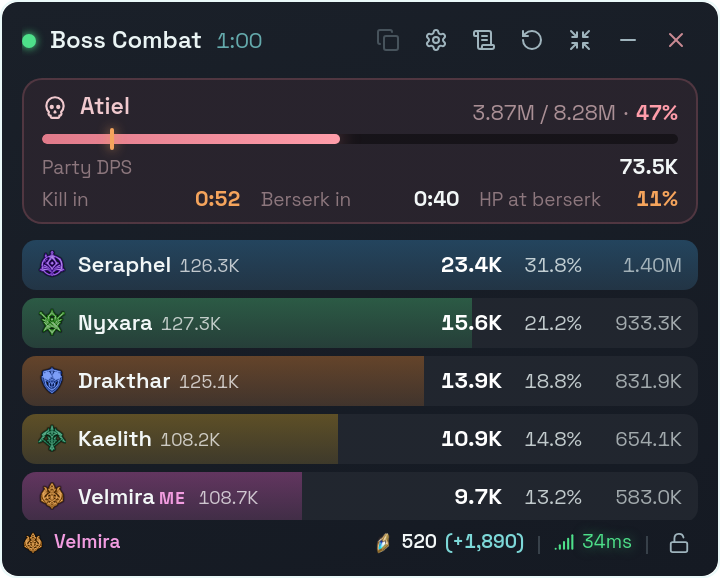
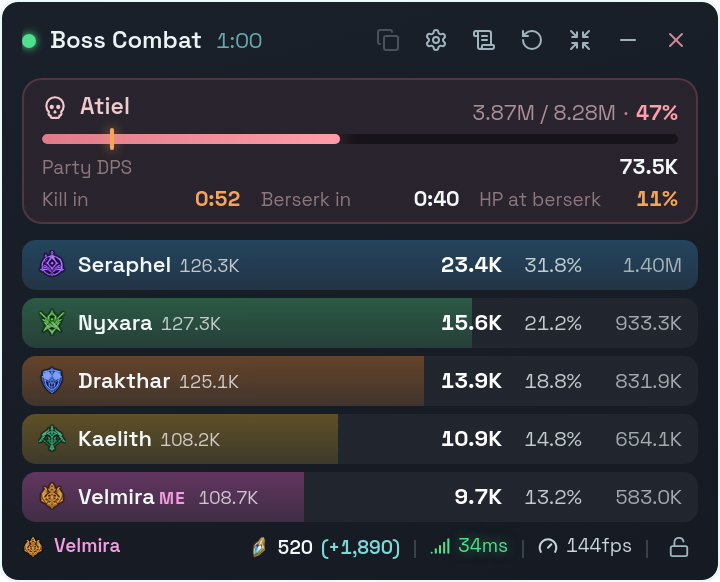
Update README.md

diff --git a/README.md b/README.md
@@ -7,7 +7,9 @@
 Live overlay in game · one-click logs on abysslogs.com · all six regions · free
 
 [![Download at abysslogs.com](https://img.shields.io/badge/Download-abysslogs.com-7dd8d8?style=for-the-badge&labelColor=191d24)](https://abysslogs.com)
-[![Discord](https://img.shields.io/badge/Discord-Aion2Global-5865F2?style=for-the-badge&logo=discord&logoColor=white&labelColor=191d24)](https://discord.gg/Aion2Global)
+[![Discord](https://img.shields.io/badge/Discord-Abyss%20Logs-5865F2?style=for-the-badge&logo=discord&logoColor=white&labelColor=191d24)](https://abysslogs.com/discord)
+
+[![Aion 2 Global community](https://img.shields.io/badge/Aion%202%20Global-community-5865F2?style=flat&logo=discord&logoColor=white&labelColor=191d24)](https://discord.gg/Aion2Global)
 
 </div>
 
@@ -22,7 +24,7 @@ Live overlay in game · one-click logs on abysslogs.com · all six regions · fr
 - **Player breakdown**: targets, skills, crit, back, front, parry, perfect, double and multi-hit rates
 - **Active %**: how much of the fight each player spent attacking
 - **Skill Spy**: the specialities behind every skill
-- **Heals** tracked on their own
+- **Heals** tracked on their own, with each healer's HPS over the whole fight
 - **Damage taken and deaths**: a record of all damage taken and a death recap.
 - **Fight highlights**: some aggregated statistics at the end of a fight
 - **Skill and buff timelines** against the boss's HP, with a player's opener sequence
@@ -33,9 +35,11 @@ Live overlay in game · one-click logs on abysslogs.com · all six regions · fr
 - **Rank badges and nameplates**: each class's top players at their CP and its top 5 overall marked in your lobby and on the bars
 - **Supporter nameplates**: supporters pick a nameplate for each verified character, and every meter shows it
 - **Buff tracking**: your cooldowns, buffs and debuffs on bars over the game, with presets per class
+- **Tracker sounds**: a sound per skill when its cooldown is ready, or when its buff or debuff goes up or ends
 - **Event alerts**: a popup and a sound before the Shugo Festival, Spacetime Rift and Invasion open, and when they do
 - **World boss alerts**: same as event alerts
 - **Field boss timers**: same as event alerts
+- **Event timers**: countdowns to the next events, world bosses and field bosses on bars over the game
 - **Fight history** on your PC, dungeon runs grouped, searchable by player and dungeon
 - **Party only** and **boss only** capture
 - **Hotkeys** to hide the overlay and reset the fight
@@ -45,15 +49,17 @@ Live overlay in game · one-click logs on abysslogs.com · all six regions · fr
 - **Click-through**: lock the overlay so your clicks reach behind the app, by button or hotkey
 - **Only above the game**: the overlay stays over the game but behind any window you bring in front of it
 - **Fade when idle**: the overlay fades after a minute without a fight, and comes back when one starts or you point at it
+- **Hide when idle**: the meter goes to the tray after a while without a fight, and comes back when one starts or a lobby opens
 - **Hide player names** for streaming: everyone else shows as their class
-- **Footer** with your character, Odyle Energy and ping
+- **Footer** with your character, Odyle Energy, ping and FPS
+- **Tickets**: every character's Odyle, Nightmare, Ascension Trial, Daily Dungeon, Shugo and Invasion keys
 - **Nine languages, six regions**, and it works through VPNs and ping reducers
 - **One-click updates** with the changelog built in
 
 **On [abysslogs.com](https://abysslogs.com)**
 
 - One click in the meter uploads a fight or a whole dungeon run and copies its link.
-- The full breakdown in the browser: party, skills, opener, skill and buff timelines, and buffs per skill.
+- The full breakdown in the browser: party, skills and casts, active time, healing, damage taken, fight highlights, opener, skill and buff timelines, and buffs per skill.
 - Leaderboards per region, boss and combat power bracket for everyone in a shared fight, with each player's gear score and combat power, and you can hide your verified characters.
 - Class statistics per boss by combat power bracket, and where your verified characters stand.
 - The home page shows your region's newest fights, the top DPS on the hardest bosses being played and this week's DPS by class.
@@ -101,6 +107,9 @@ The meter is 100% accurate. It records the game's own combat data, and the site 
 
 **Which systems does it run on?**
 64-bit Windows.
+
+**Where do I report a bug or suggest a feature?**
+In the [Abyss Logs Discord](https://abysslogs.com/discord): open a ticket for a bug, or post your idea in feature suggestions. Also by clicking Report a bug, in the meter's settings or on abysslogs.com
 
 ---
 
